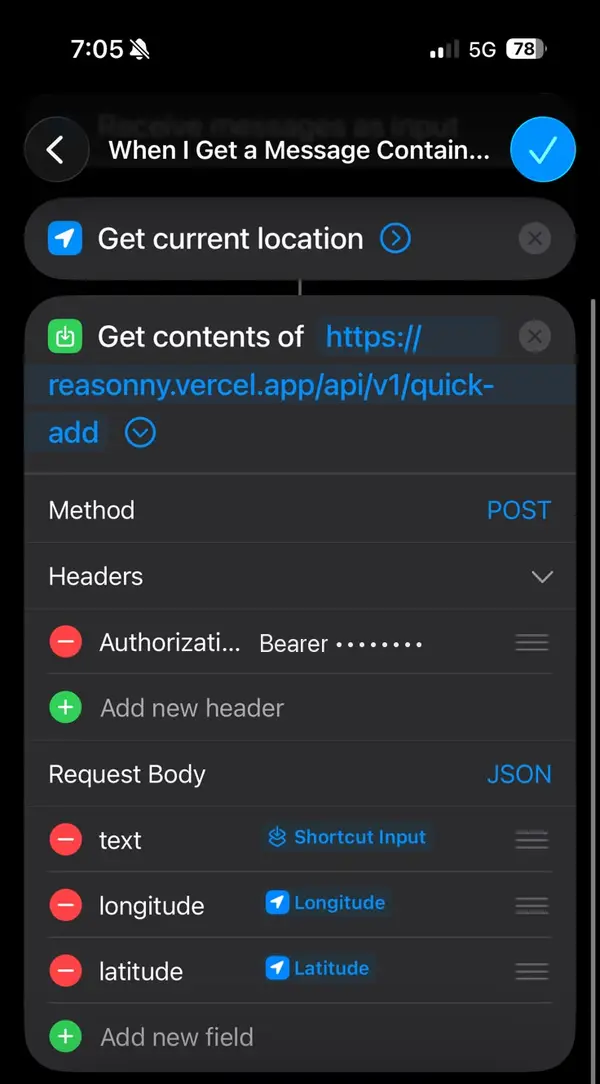
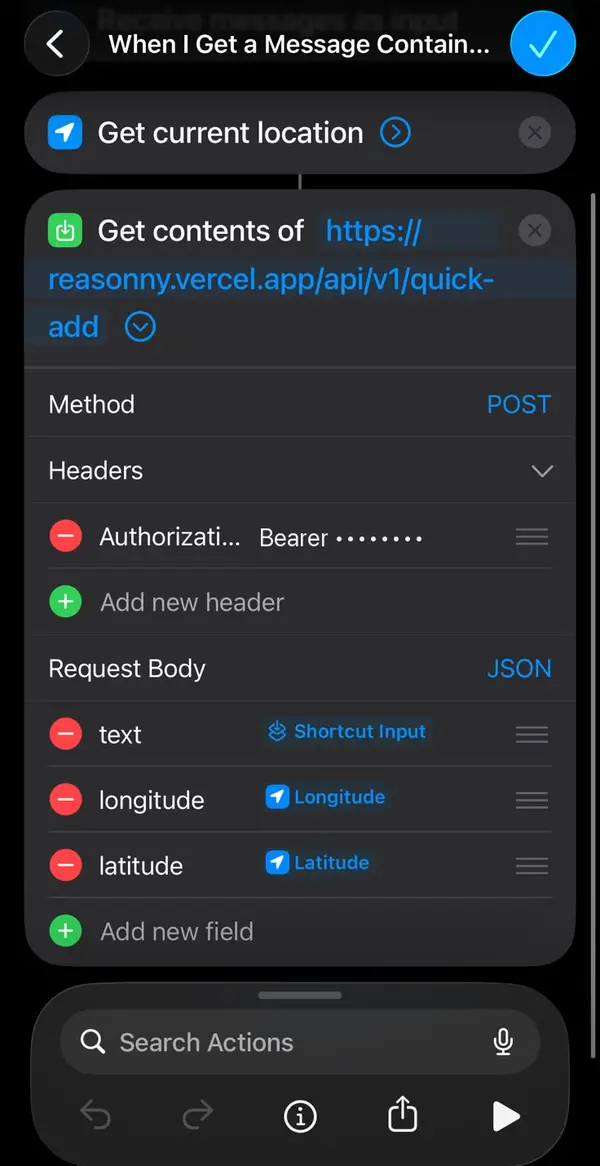
feat(capture): answer the tutorial's test run instead of rejecting it
The tutorial now ends by asking the user to tap ▶ once in the Shortcut.
That manual run is the only moment iOS can ask for the location and
network permissions: an automation fired by an SMS runs in the
background, cannot show the question, and stalls until iOS kills it.

A manual run has no SMS behind it, so `text` arrives empty, and
Shortcuts shows the response on screen. Every user who did the right
thing was reading {"error":"invalid_body"}. An empty text from a
verified token now answers 200 with a plain "connected" message, in the
phone's language. It is still recorded, as `empty_text`, because the
same body arrives when the Shortcut Input bubble was never set.

The tutorial step says why ▶ matters, shows the real Shortcuts icon, and
the progress bar is thick enough to notice, with its percentage.

diff --git a/src/components/ingest/ingest-setup.tsx b/src/components/ingest/ingest-setup.tsx
@@ -402,12 +402,12 @@ export function buildSteps(locale: Ui): Step[] {
         },
         {
           id: 'save_shortcut',
-          title: 'Check it and tap the blue ✓',
+          title: 'Test it with ▶, then tap the blue ✓',
           body: (
             <>
-              It should look like this: location, address, <em>POST</em>, your key, and three fields in lowercase with blue bubbles. Then tap the <strong>✓</strong> at the top right.
-              <IngestCallout icon="Check">
-                From now on, every bank text records the spend on its own.
+              It should look like this: location, address, <em>POST</em>, your key, and three fields in lowercase with blue bubbles. Tap <strong>▶</strong> at the bottom right once, then the <strong>✓</strong> at the top right.
+              <IngestCallout icon="AlertTriangle">
+                If the iPhone asks to use your location or to connect to <em>reasonny.vercel.app</em>, choose <strong>Allow</strong>. Those questions cannot appear when a text arrives, and without the answer the automation stalls and the spend is lost.
               </IngestCallout>
             </>
           ),
@@ -588,12 +588,12 @@ export function buildSteps(locale: Ui): Step[] {
       },
       {
         id: 'save_shortcut',
-        title: 'Revísalo y toca el ✓ azul',
+        title: 'Pruébalo con ▶ y toca el ✓ azul',
         body: (
           <>
-            Debe verse así: ubicación, dirección, <em>POST</em>, tu llave y tres campos en minúscula con burbujas azules. Luego toca el <strong>✓</strong> arriba a la derecha.
-            <IngestCallout icon="Check">
-              Desde ahora, cada SMS del banco registra el gasto solo.
+            Debe verse así: ubicación, dirección, <em>POST</em>, tu llave y tres campos en minúscula con burbujas azules. Toca <strong>▶</strong> abajo a la derecha una vez, y luego el <strong>✓</strong> arriba a la derecha.
+            <IngestCallout icon="AlertTriangle">
+              Si el iPhone pregunta si puede usar tu ubicación o conectarse a <em>reasonny.vercel.app</em>, elige <strong>Permitir</strong>. Esas preguntas no pueden salir cuando llega un SMS, y sin la respuesta la automatización se queda esperando y el gasto se pierde.
             </IngestCallout>
           </>
         ),
@@ -1109,11 +1109,18 @@ export function IngestSetup({
               )}
 
               <span className="ingest-count">{copy.stepCount(index + 1, steps.length)}</span>
+              <span className="ingest-percent" aria-hidden="true">
+                {progress}%
+              </span>
             </div>
 
             {/* scaleX rather than width: width is a layout property and animating it
                 is what the design system forbids. */}
+            {/* Keyed by the step so the pop replays on every advance: the bar is
+                the one thing on this screen that says "you are getting there",
+                and a change nobody notices says nothing. */}
             <div
+              key={`track-${index}`}
               className="ingest-track"
               role="progressbar"
               aria-valuenow={progress}

diff --git a/src/app/api/v1/quick-add/route.ts b/src/app/api/v1/quick-add/route.ts
@@ -11,7 +11,7 @@ import { type UserId } from '@/core/types';
 import { telegramAdapter } from '@/clients/telegram/messaging-adapter';
 import { parseBankSms } from '@/infrastructure/sms-parsers';
 import { readBearer, verifyIngestToken } from '@/lib/ingest-token';
-import { DEFAULT_LOCALE } from '@/lib/i18n';
+import { DEFAULT_LOCALE, type Locale, t } from '@/lib/i18n';
 
 /**
  * Ingestion endpoint.
@@ -165,6 +165,41 @@ function canonicalizeKeys(body: unknown): unknown {
   return out;
 }
 
+/**
+ * True when the body carries no message at all.
+ *
+ * WHY THIS IS ANSWERED AS A TEST AND NOT AS invalid_body
+ * ------------------------------------------------------
+ * The tutorial ends by asking the user to tap ▶ once, because that manual run
+ * is the only moment iOS can ask for the location and network permissions -
+ * an automation fired by an SMS runs in the background, cannot show the
+ * question, and stalls until iOS kills it. A manual run has no SMS behind it,
+ * so `text` arrives empty, and Shortcuts SHOWS the response on screen. Every
+ * user who did the right thing was reading `{"error":"invalid_body"}` and
+ * concluding they had done it wrong.
+ *
+ * An empty text from a VERIFIED token proves exactly what the test is for: the
+ * phone reaches us, with a key that is theirs. That is worth saying plainly.
+ *
+ * It is still recorded, as `empty_text` rather than as a success: the same
+ * body also arrives when the Shortcut Input bubble was never set, and a user
+ * whose real SMS keep arriving empty must be visible in the table, not hidden
+ * behind a friendly message.
+ */
+function isEmptyText(body: unknown): boolean {
+  if (typeof body !== 'object' || body === null || Array.isArray(body)) {
+    return false;
+  }
+  const text = (body as Record<string, unknown>).text;
+  return text === undefined || (typeof text === 'string' && text.trim() === '');
+}
+
+/** Shortcuts sends the phone's language, and the phone is who reads the reply. */
+function localeFromRequest(request: NextRequest): Locale {
+  const header = request.headers.get('accept-language')?.trim().toLowerCase() ?? '';
+  return header.startsWith('en') ? 'en' : DEFAULT_LOCALE;
+}
+
 export async function POST(request: NextRequest): Promise<NextResponse> {
   let userId: UserId | null;
   try {
@@ -190,7 +225,18 @@ export async function POST(request: NextRequest): Promise<NextResponse> {
     return refuse(userId, 400, { error: 'invalid_json' }, { raw: rawText }, 'invalid_json');
   }
 
-  const parsedBody = BodySchema.safeParse(canonicalizeKeys(body));
+  const canonicalBody = canonicalizeKeys(body);
+  if (isEmptyText(canonicalBody)) {
+    return refuse(
+      userId,
+      200,
+      { ok: true, test: true, message: t('quick_add_test_ok', localeFromRequest(request)) },
+      body,
+      'empty_text',
+    );
+  }
+
+  const parsedBody = BodySchema.safeParse(canonicalBody);
   if (!parsedBody.success) {
     // The commonest real cause: the Shortcut's JSON field is named something
     // other than `text`, or its value was left empty.

diff --git a/src/app/globals.css b/src/app/globals.css
@@ -5004,6 +5004,19 @@ textarea:focus-visible {
   font-weight: 700;
 }
 
+/* The real app icon, so step one is recognised rather than read. The label
+   takes the free space, which keeps "App" pinned to the right. */
+.art-icon {
+  flex-shrink: 0;
+  width: 36px;
+  height: 36px;
+  border-radius: 9px;
+}
+
+.art-icon + .art-label {
+  flex: 1;
+}
+
 /* A search box, drawn as the field it is. */
 .art-row--field {
   background: rgba(255, 255, 255, 0.05);
@@ -5409,7 +5422,59 @@ textarea:focus-visible {
 
 .ingest-fullscreen .ingest-track {
   margin-bottom: 18px;
-  height: 14px;
+  height: 22px;
+}
+
+/* ── Progress that is felt, not just shown ──────────────────────────────────
+   Nineteen steps is a long way on a phone, and the bar is the only thing on
+   the screen that says the end is getting closer. So it is thick enough to
+   notice, it pops on every advance (the track is keyed by step), and a light
+   sweeps along the filled part. Transform and opacity only: the compositor
+   runs all three, so none of it costs INP. */
+.ingest-track {
+  animation: ingestTrackPop 420ms var(--ease-out);
+}
+
+@keyframes ingestTrackPop {
+  0% { transform: scaleY(1); }
+  35% { transform: scaleY(1.35); }
+  100% { transform: scaleY(1); }
+}
+
+.ingest-fill {
+  position: relative;
+  overflow: hidden;
+}
+
+.ingest-fill::after {
+  content: '';
+  position: absolute;
+  inset: 0;
+  width: 40%;
+  background: linear-gradient(90deg, transparent, rgba(255, 255, 255, 0.55), transparent);
+  transform: translateX(-120%);
+  animation: ingestSweep 2.2s var(--ease-out) infinite;
+}
+
+@keyframes ingestSweep {
+  0% { transform: translateX(-120%); }
+  60%, 100% { transform: translateX(260%); }
+}
+
+.ingest-percent {
+  font-size: 22px;
+  font-weight: 800;
+  letter-spacing: -0.02em;
+  font-variant-numeric: tabular-nums;
+  color: var(--landing-champagne-gold);
+  text-shadow: 0 0 14px rgba(240, 122, 172, 0.55);
+}
+
+@media (prefers-reduced-motion: reduce) {
+  .ingest-track,
+  .ingest-fill::after {
+    animation: none;
+  }
 }
 
 .ingest-fullscreen .ingest-step {

diff --git a/src/app/api/v1/quick-add/route.test.ts b/src/app/api/v1/quick-add/route.test.ts
@@ -146,6 +146,45 @@ describe('POST /api/v1/quick-add', () => {
     expect(recordTransaction).toHaveBeenCalled();
   });
 
+  describe('the ▶ test run at the end of the tutorial', () => {
+    it('answers an empty text from a valid key as a successful connection test', async () => {
+      // A manual run has no SMS behind it, and Shortcuts shows this reply on
+      // screen. It used to read invalid_body to every user who did it right.
+      const res = await POST(
+        request({ text: '', latitude: '4.65', longitude: '-74.05' }, mintIngestToken(userId)),
+      );
+
+      expect(res.status).toBe(200);
+      const body = await res.json();
+      expect(body).toMatchObject({ ok: true, test: true });
+      expect(body.message).toContain('Conectado');
+      expect(recordTransaction).not.toHaveBeenCalled();
+    });
+
+    it('still leaves a trace, since real SMS can arrive empty too', async () => {
+      await POST(request({ text: '   ' }, mintIngestToken(userId)));
+
+      expect(recordIngestionFailure).toHaveBeenCalledWith(
+        userId,
+        expect.objectContaining({ error: 'empty_text' }),
+      );
+    });
+
+    it('replies in the language the phone asked for', async () => {
+      const req = request({ Text: '' }, mintIngestToken(userId));
+      req.headers.set('Accept-Language', 'en-US,en;q=0.9');
+
+      const body = await (await POST(req)).json();
+      expect(body.message).toContain('Connected');
+    });
+
+    it('does not vouch for a key that does not verify', async () => {
+      const res = await POST(request({ text: '' }, 'not-a-token'));
+
+      expect(res.status).toBe(401);
+    });
+  });
+
   describe('coordinates from Shortcuts', () => {
     it('reads the numbers Shortcuts sends as strings', async () => {
       await POST(

diff --git a/src/components/ingest/step-art.tsx b/src/components/ingest/step-art.tsx
@@ -22,6 +22,8 @@ export interface ArtRow {
   readonly toggle?: boolean;
   /** Draws the row as a text field with the label as its content. */
   readonly field?: boolean;
+  /** An app icon under /public, drawn before the label as Search shows it. */
+  readonly icon?: string;
 }
 
 export interface StepArt {
@@ -66,6 +68,12 @@ export function StepArtwork({ art }: { readonly art: StepArt }): React.ReactElem
               .filter(Boolean)
               .join(' ')}
           >
+            {row.icon && (
+              // A plain img: a 36px icon of 4 KB gains nothing from the image
+              // optimiser, and the empty alt is right because the label next
+              // to it already says what it is.
+              <img src={row.icon} alt="" width={36} height={36} className="art-icon" />
+            )}
             <span className="art-label">{row.label}</span>
             {row.toggle ? (
               <span
@@ -114,7 +122,7 @@ export const STEP_ART: Readonly<Record<'es' | 'en', Readonly<Partial<Record<stri
       title: 'Buscar',
       rows: [
         { label: 'atajos', field: true },
-        { label: 'Atajos', value: 'App', target: true },
+        { label: 'Atajos', value: 'App', target: true, icon: '/tutorial/shortcuts-icon.webp' },
       ],
     },
   },
@@ -123,7 +131,7 @@ export const STEP_ART: Readonly<Record<'es' | 'en', Readonly<Partial<Record<stri
       title: 'Search',
       rows: [
         { label: 'shortcuts', field: true },
-        { label: 'Shortcuts', value: 'App', target: true },
+        { label: 'Shortcuts', value: 'App', target: true, icon: '/tutorial/shortcuts-icon.webp' },
       ],
     },
   },

diff --git a/src/lib/i18n.ts b/src/lib/i18n.ts
@@ -164,6 +164,8 @@ export const DICTIONARY = {
     capture_callout_title: 'Vincula tu banco ahora',
     capture_callout_text: 'Conecta los SMS de tu banco con Atajos de iOS y tus gastos se guardan solos.',
     capture_callout_aria: 'Vincular la captura automática de SMS con Atajos',
+    quick_add_test_ok:
+      '✓ Conectado: tu iPhone llega a Reasonny. Esta prueba no trae un SMS, así que no se guarda ningún gasto; el próximo mensaje de tu banco sí.',
     dashboard_export_csv: 'CSV',
     dashboard_export_csv_title: 'Exportar todas las transacciones a CSV',
     dashboard_recent_title: 'Últimos movimientos',
@@ -435,6 +437,8 @@ export const DICTIONARY = {
     capture_callout_title: 'Link your bank now',
     capture_callout_text: 'Connect your bank texts to iOS Shortcuts and your spending records itself.',
     capture_callout_aria: 'Link automatic SMS capture with Shortcuts',
+    quick_add_test_ok:
+      '✓ Connected: your iPhone reaches Reasonny. This test carries no text message, so no spend is saved; the next one from your bank will be.',
     dashboard_export_csv: 'CSV',
     dashboard_export_csv_title: 'Export every transaction to CSV',
     dashboard_recent_title: 'Recent activity',

diff --git a/src/components/ingest/step-shots.tsx b/src/components/ingest/step-shots.tsx
@@ -255,11 +255,14 @@ export const STEP_SHOTS: Readonly<Partial<Record<string, StepShot>>> = {
   save_shortcut: {
     src: '/tutorial/done.webp',
     width: 600,
-    height: 1084,
+    height: 1166,
     alt: {
-      es: 'El atajo terminado, con el botón azul de confirmar marcado arriba a la derecha',
-      en: 'The finished shortcut, with the blue confirm button marked at the top right',
+      es: 'El atajo terminado, con el botón ▶ marcado abajo y el ✓ azul arriba a la derecha',
+      en: 'The finished shortcut, with the ▶ button marked at the bottom and the blue ✓ at the top right',
     },
-    marks: [[84.5, 10.5, 12, 6.6]],
+    marks: [
+      [79.9, 93.1, 9.2, 5.3],
+      [84.5, 0.6, 12, 6.2],
+    ],
   },
 };
